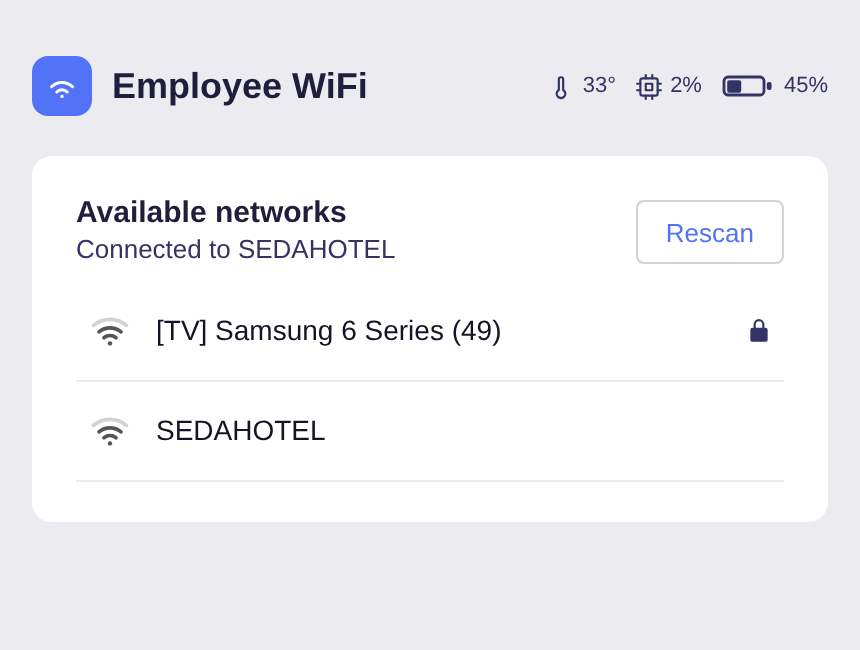
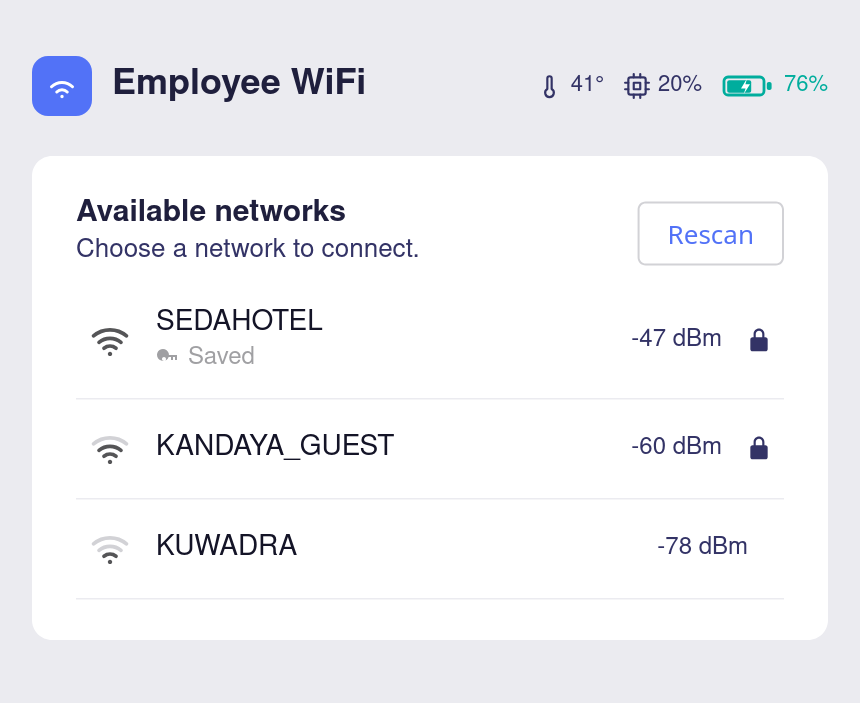
README: refresh /wifi screenshots for the new UI
Regenerate the network-list and dark-mode screenshots to show the
current UI: per-network signal in dBm, the connected network marked
(green check + accent) and pinned to the top, Saved badges on
stored-profile networks, and the Disconnect button. Update the
dark-mode caption/alt to match.

diff --git a/README.md b/README.md
@@ -12,11 +12,12 @@ The employee page (`/wifi`):
   <img src="docs/screenshots/wifi-connect.png" width="32%" alt="Connect" />
 </p>
 
-Live device status (temperature, CPU load, battery and charging) sits in the page header,
-here in dark mode:
+In dark mode — the connected network is marked and pinned to the top, saved networks are
+flagged, signal shows in dBm, and live device status (temperature, CPU load, battery) sits
+in the header:
 
 <p align="center">
-  <img src="docs/screenshots/wifi-status.png" width="66%" alt="Employee page in dark mode with the device-status widget and a connected network" />
+  <img src="docs/screenshots/wifi-status.png" width="66%" alt="Employee page in dark mode: the connected network marked and pinned, saved networks flagged, signal in dBm, a Disconnect button, and the device-status widget" />
 </p>
 
 The admin page — a native entry in the GL.iNet admin (Applications → Employee WiFi):
